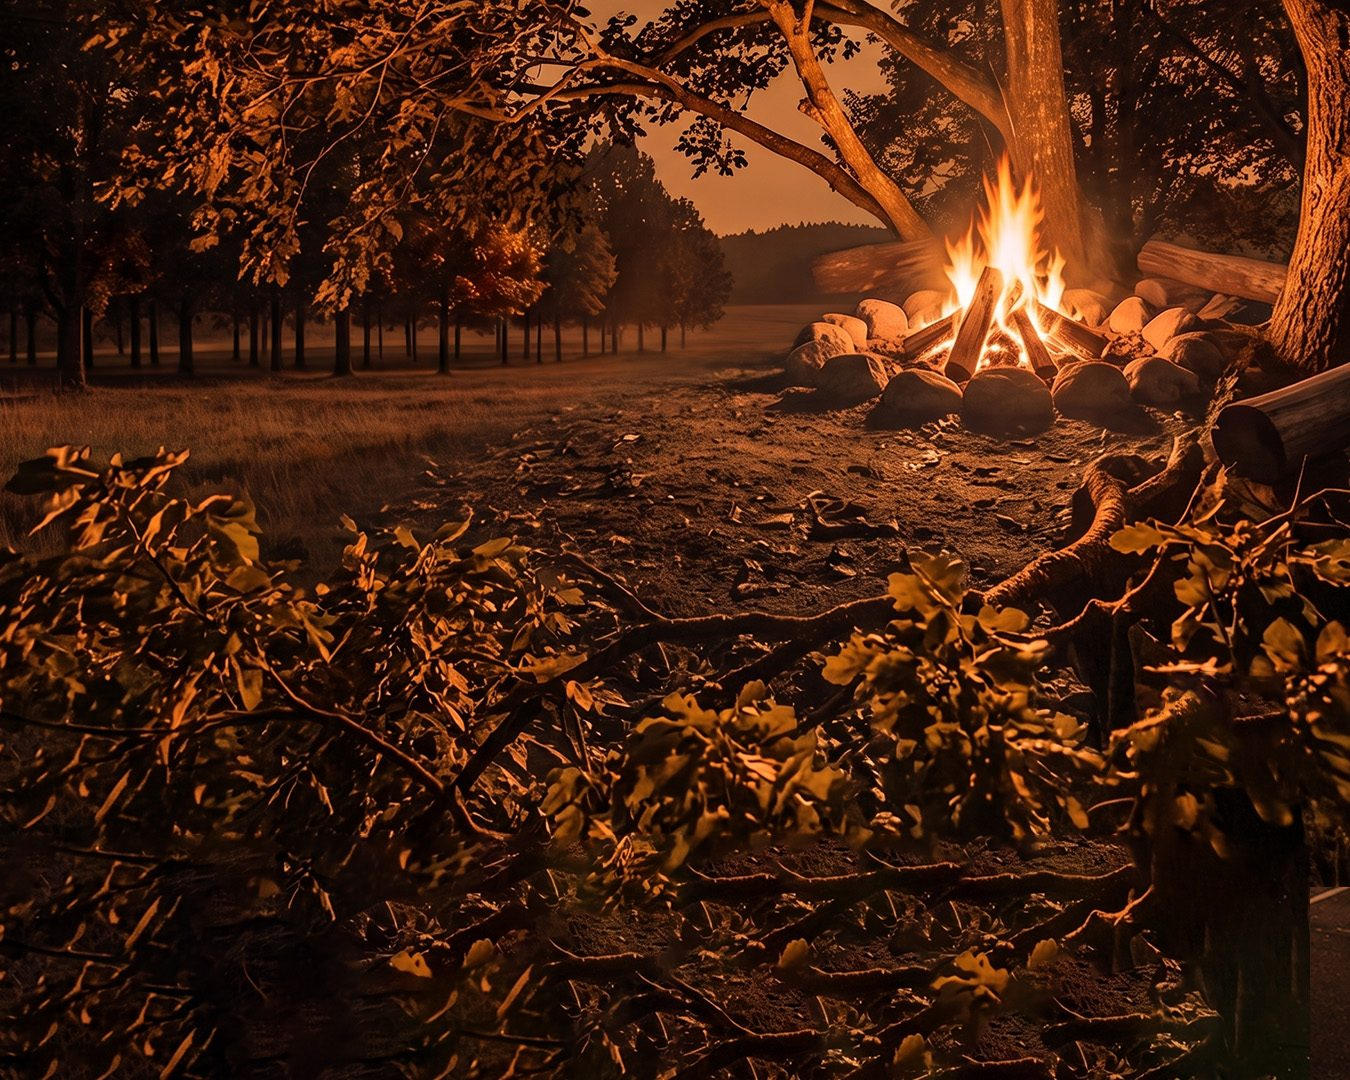
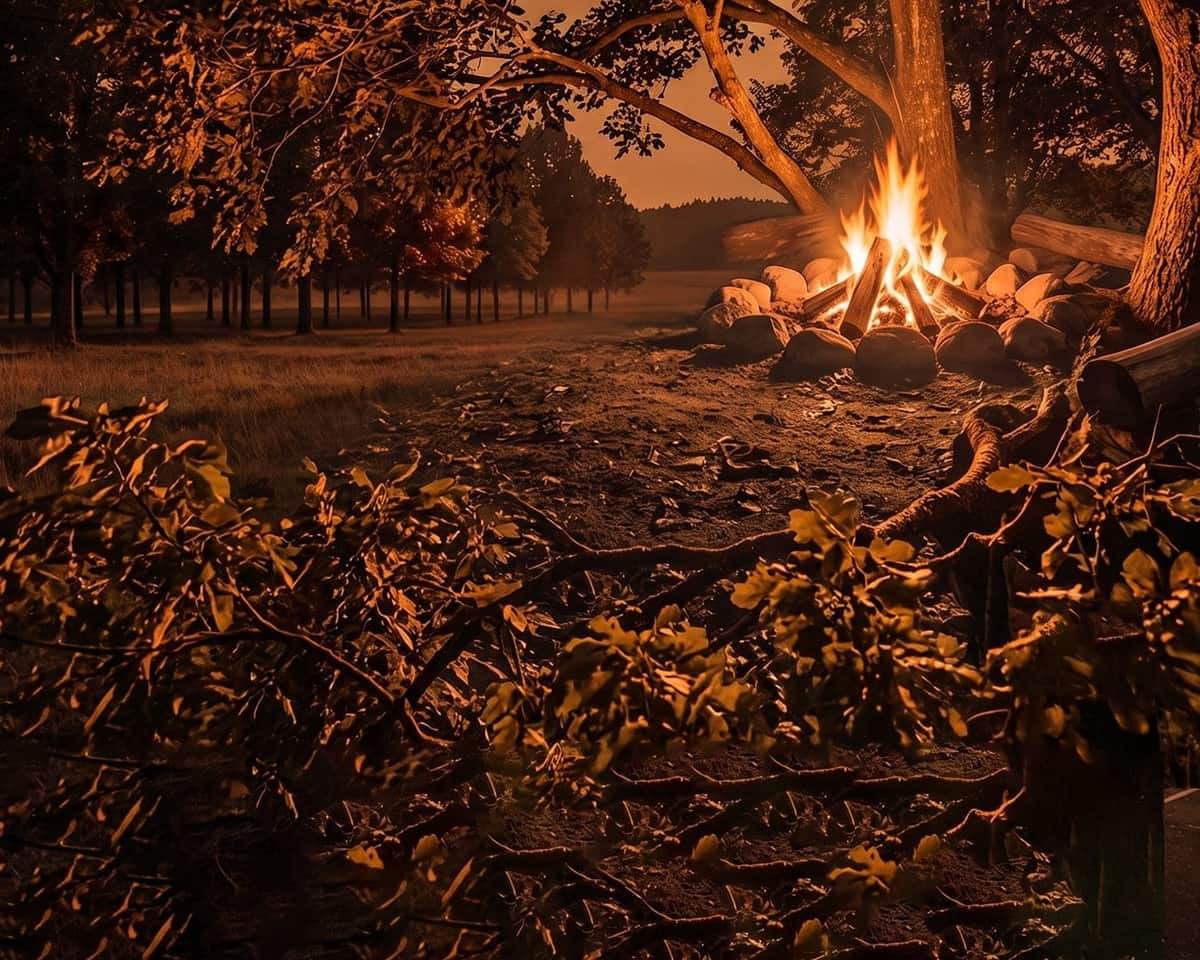
Production polish: error pages, trim assets, strip debug logs
- Add app/error.tsx (styled retry screen) and global-error.tsx fallback
- Recompress heavy hero photos (camp 377→159 KB, basketball 238→95 KB)
- Delete unused public/project_191991_1642180173.jpeg
- Remove dead guest-login path from auth.tsx
- Drop diagnostic console logs (VAPID key, ping/invite success)
- Update CLAUDE.md structure and data model to match the codebase

Claude-Session: https://claude.ai/code/session_01T8a7X3d4zjEzxJV3fSyW7S

diff --git a/src/app/global-error.tsx b/src/app/global-error.tsx
@@ -1,0 +1,44 @@
+'use client';
+
+// Ostatnia linia obrony: błąd w samym root layoucie. Renderuje się BEZ layoutu
+// (i bez globals.css), więc musi mieć własne <html>/<body> i style inline.
+export default function GlobalError({ reset }: { reset: () => void }) {
+  return (
+    <html lang="pl">
+      <body
+        style={{
+          margin: 0,
+          minHeight: '100vh',
+          display: 'flex',
+          flexDirection: 'column',
+          alignItems: 'center',
+          justifyContent: 'center',
+          gap: 16,
+          background: '#0c0e10',
+          color: '#e8eaed',
+          fontFamily: 'ui-monospace, monospace',
+          textAlign: 'center',
+          padding: 24,
+        }}
+      >
+        <b style={{ fontSize: 18, letterSpacing: 1 }}>WYPAD.EXE</b>
+        <p style={{ margin: 0, opacity: 0.7 }}>Coś się mocno wysypało.</p>
+        <button
+          type="button"
+          onClick={reset}
+          style={{
+            padding: '10px 22px',
+            borderRadius: 10,
+            border: '1px solid rgba(255,255,255,0.2)',
+            background: 'rgba(255,255,255,0.08)',
+            color: 'inherit',
+            font: 'inherit',
+            cursor: 'pointer',
+          }}
+        >
+          Spróbuj ponownie
+        </button>
+      </body>
+    </html>
+  );
+}

diff --git a/src/app/error.tsx b/src/app/error.tsx
@@ -1,0 +1,42 @@
+'use client';
+
+// Granica błędów dla stron (App Router): zamiast domyślnego białego ekranu Next
+// pokazujemy komunikat w skórce apki z możliwością ponowienia. Renderuje się
+// wewnątrz layoutu, więc tło i style globalne działają normalnie.
+export default function ErrorPage({
+  error,
+  reset,
+}: {
+  error: Error & { digest?: string };
+  reset: () => void;
+}) {
+  return (
+    <main className="glass-page">
+      <div className="wordmark cursor" style={{ textAlign: 'center', margin: '32px 0 18px' }}>
+        WYPAD<span>.EXE</span>
+      </div>
+      <div className="card">
+        <div className="modal-label">Coś się wysypało</div>
+        <p className="small muted">
+          Apka napotkała błąd. Spróbuj ponownie — a jak nie pomoże, odśwież stronę.
+        </p>
+        {error?.message && (
+          <p className="small" style={{ color: 'var(--no)', wordBreak: 'break-word' }}>
+            {error.message}
+          </p>
+        )}
+        <button type="button" className="cta-gradient" onClick={reset}>
+          Spróbuj ponownie
+        </button>
+        <button
+          type="button"
+          className="ghost mt"
+          style={{ width: '100%' }}
+          onClick={() => window.location.assign('/')}
+        >
+          Wróć na główną
+        </button>
+      </div>
+    </main>
+  );
+}

diff --git a/src/lib/auth.tsx b/src/lib/auth.tsx
@@ -146,14 +146,6 @@ function LoginForm() {
   const [sent, setSent] = useState(false);
   const [busy, setBusy] = useState(false);
   const [error, setError] = useState('');
-  const [isPreview, setIsPreview] = useState(false);
-
-  // Guzik „gość" pokazujemy na preview i lokalnie (każdy adres *.vercel.app oraz localhost).
-  // Na własnej domenie produkcyjnej się nie pokaże.
-  useEffect(() => {
-    const h = window.location.hostname;
-    setIsPreview(h.endsWith('.vercel.app') || h.includes('localhost') || h.startsWith('127.'));
-  }, []);
 
   async function sendCode(e: React.FormEvent) {
     e.preventDefault();
@@ -202,24 +194,6 @@ function LoginForm() {
       return;
     }
     // onAuthStateChange ustawi sesję i przełączy widok — w TEJ przeglądarce.
-  }
-
-  async function guestLogin() {
-    if (busy) return;
-    setBusy(true);
-    setError('');
-    const { error } = await supabase.auth.signInAnonymously({
-      options: {
-        data: {
-          display_name: `Gość ${Math.floor(Math.random() * 900 + 100)}`,
-          avatar: AVATARS[Math.floor(Math.random() * AVATARS.length)],
-        },
-      },
-    });
-    if (error) {
-      setError(error.message);
-      setBusy(false);
-    }
   }
 
   return (
@@ -281,19 +255,6 @@ function LoginForm() {
             Zmień e-mail / wyślij ponownie
           </button>
         </form>
-      )}
-
-      {/* Guzik gościa tymczasowo wyłączony */}
-      {false && isPreview && (
-        <button
-          type="button"
-          className="ghost mt"
-          style={{ width: '100%' }}
-          disabled={busy}
-          onClick={guestLogin}
-        >
-          Wejdź bez logowania (gość)
-        </button>
       )}
     </main>
   );

diff --git a/src/lib/invite.ts b/src/lib/invite.ts
@@ -12,10 +12,7 @@ export async function inviteMember(email: string): Promise<string | null> {
       body: { email: email.trim() },
     });
 
-    if (!error) {
-      console.log('[invite] OK', data);
-      return null;
-    }
+    if (!error) return null;
 
     // Wyciągnij ile się da z błędu invoke.
     const name = (error as Error).name;

diff --git a/src/lib/push.ts b/src/lib/push.ts
@@ -61,9 +61,6 @@ export async function subscribeToPush(userId: string): Promise<void> {
   const permission = await Notification.requestPermission();
   if (permission !== 'granted') throw new Error('Brak zgody na powiadomienia.');
 
-  // DIAGNOSTYKA: jaki klucz publiczny faktycznie ma ten build (NEXT_PUBLIC_* jest
-  // wkompilowane przy buildzie — jeśli tu widać stary klucz, preview nie przebudował się).
-  console.log('[push] VAPID_PUBLIC_KEY w buildzie =', VAPID_PUBLIC_KEY);
   const desiredKey = urlBase64ToUint8Array(VAPID_PUBLIC_KEY);
 
   // Jeśli w przeglądarce jest już subskrypcja, ale zrobiona INNYM kluczem VAPID,
@@ -75,7 +72,6 @@ export async function subscribeToPush(userId: string): Promise<void> {
     const same =
       current.length === desiredKey.length && current.every((b, i) => b === desiredKey[i]);
     if (!same) {
-      console.warn('[push] istniejąca subskrypcja ma inny klucz — od-subskrybowuję i robię nową');
       await supabase.from('push_subscriptions').delete().eq('endpoint', sub.endpoint);
       await sub.unsubscribe();
       sub = null;

diff --git a/src/lib/ping.ts b/src/lib/ping.ts
@@ -44,7 +44,6 @@ export async function pingUser(eventId: string, targetUserId: string, targetName
       return `Ping padł: ${name}${status ? ` (${status})` : ''} — ${reason ?? bodyText ?? message}`;
     }
 
-    console.log('[ping] odpowiedź', data);
     const d = data as { sent?: number; reason?: string } | null;
     if (d && d.sent === 0) {
       return d.reason === 'no-subscriptions'

diff --git a/CLAUDE.md b/CLAUDE.md
@@ -59,36 +59,53 @@ Guidance for AI assistants (and humans) working in this repository.
 ├── public/
 │   ├── manifest.webmanifest      # Manifest PWA
 │   ├── sw.js                     # Service worker (Web Push: push + notificationclick)
-│   └── icon.svg                  # Ikona aplikacji
+│   ├── icon.svg                  # Ikona aplikacji (+ icon-180/192/512.png dla PWA/iOS)
+│   └── hero/                     # Kuratorowane zdjęcia tła kart hero per kategoria (emoji)
 └── src/
     ├── app/
     │   ├── layout.tsx            # Root layout + AuthProvider (bramka logowania), metadata, analityka
     │   ├── globals.css           # Wszystkie style
-    │   ├── page.tsx              # Strona główna = dashboard: oś czasu wypadów + „Nowy wypad"
-    │   ├── event/[id]/page.tsx   # Strona wypadu: terminy, głosowanie, wynik na żywo, ustalanie terminu
+    │   ├── page.tsx              # Strona główna = dashboard: hero + rozkład wypadów + „Nowe lobby"
+    │   ├── error.tsx             # Granica błędów stron (komunikat w skórce apki + retry)
+    │   ├── global-error.tsx      # Awaryjny ekran, gdy wysypie się sam root layout
+    │   ├── event/[id]/page.tsx   # Strona wypadu: terminy, głosowanie, czat, ustalanie terminu
+    │   ├── event/[id]/loading.tsx # Skeleton przejścia do wypadu
     │   └── api/keepalive/route.ts # Endpoint pingowany cronem — utrzymuje bazę aktywną
     ├── components/
     │   ├── SetupBanner.tsx       # Baner gdy brak konfiguracji Supabase
     │   ├── Avatar.tsx            # Avatar (zdjęcie/emoji/inicjały) + AvatarStack
     │   ├── ProfileMenu.tsx       # Avatar w rogu + menu: zmień zdjęcie / emoji / wyloguj
+    │   ├── SettingsMenu.tsx      # Ustawienia: akcent, powiadomienia push, admin (zaproszenia, kadrowanie)
     │   ├── SlotRangeInput.tsx    # Wspólny input terminu: Od / Do / Godzina
+    │   ├── DateTimeInput.tsx     # Pojedyncze pole daty/godziny (część SlotRangeInput)
     │   ├── DescriptionInput.tsx  # Pole opisu + pasek formatowania (B / lista / link)
+    │   ├── EventEmojiInput.tsx   # Wybór emoji/kategorii wypadu (spójny z heroImage.ts)
+    │   ├── LocationAutocomplete.tsx # Podpowiedzi miejscowości (Open-Meteo geocoding) + współrzędne
+    │   ├── Dialogs.tsx           # appAlert/appConfirm + DialogHost (zamiast natywnych alertów)
+    │   ├── GlassBackground.tsx   # Tło „frosted glass" pod całą apką
     │   ├── HeroCropEditor.tsx    # Admin: kadrowanie zdjęć hero per kategoria (zoom+pozycja)
-    │   └── icons.tsx             # Lekkie ikony inline SVG (kalendarz, zegar, pin…)
+    │   └── icons.tsx             # Lekkie ikony inline SVG (kalendarz, zegar, pin, pogoda…)
     └── lib/
         ├── supabaseClient.ts     # Klient Supabase + flaga isSupabaseConfigured
         ├── admin.ts              # E-maile adminów (właściciel) + isAdminEmail; trzymaj w synchronie z is_admin() w schema.sql
         ├── auth.tsx              # AuthProvider (logowanie e-mail/OTP, nazwa+awatar, flaga isAdmin) + hook useAuth
-        ├── slotInput.ts          # Budowanie terminu (starts/ends/all_day) z pól Od/Do/Godzina
+        ├── slotInput.ts          # Budowanie terminu (starts/ends/all_day) z pól Od/Do/Godzina (+ testy)
         ├── avatars.ts            # Lista emoji-awatarów + deterministyczne kolory/inicjały
+        ├── accent.ts             # Kolor akcentu użytkownika (localStorage + skrypt bootujący)
         ├── ping.ts               # „Pinguj kurwę": wywołanie Edge Function ping-user + limit 12h
         ├── invite.ts             # Admin: dodanie e-maila do paczki (Edge Function invite-user)
+        ├── notifyConfirmed.ts    # Fire-and-forget push „✓ GRAMY" (Edge Function notify-confirmed)
         ├── heroImage.ts          # Mapa emoji → zdjęcie tła karty hero (public/hero/*.jpg) + kategorie
         ├── heroCrops.ts          # Odczyt/zapis kadru hero per kategoria (tabela hero_crops)
         ├── push.ts               # Web Push po stronie klienta (subskrypcja, rejestracja SW)
+        ├── weather.ts            # Prognoza Open-Meteo na dzień wypadu + geokodowanie (cache w pamięci)
         ├── calendar.ts           # Eksport ustalonego terminu do pliku .ics (Apple/Google Calendar)
         ├── markdown.tsx          # Mini-renderer markdownu opisu → elementy React (bez surowego HTML)
-        └── types.ts              # Typy: EventRow, Slot, Vote, Profile, Availability
+        ├── transition.tsx        # Animowane przejścia stron (forward/back) + useTransitionNavigate
+        ├── dataCache.ts          # Cache danych w pamięci: dashboard ↔ strona wypadu bez „Wczytuję…"
+        ├── eventPrefetch.ts      # Prefetch danych wypadu na pointerdown (przed nawigacją)
+        ├── chatSeen.ts           # Lokalny znacznik „przeczytane" czatu (kropki nieprzeczytanych)
+        └── types.ts              # Typy + logika statusu wypadu (EventRow, Slot, Vote, Profile…) (+ testy)
 ```
 
 **Punkty wejścia:** `src/app/page.tsx` (`/`, dashboard wszystkich wypadów) oraz
@@ -130,6 +147,9 @@ Zdefiniowany w `supabase/schema.sql` (skrypt idempotentny — można uruchomić 
 - **comments** — komentarze pod wypadem (koordynacja): `event_id` + `user_id` (konto)
   + `author_name` (migawka) + `body`. RLS: każdy zalogowany czyta i dodaje swój; usuwa
   autor, organizator albo admin. Realtime + wątek pod terminami na stronie wypadu.
+- **hero_crops** — kadr zdjęcia hero per kategoria (emoji): `zoom` + `pos_x`/`pos_y`.
+  Zdjęcia są stałe (`public/hero/<slug>.jpg`), admin ustawia kadr w apce
+  (`HeroCropEditor`). Wszyscy czytają, zapisuje tylko admin (`is_admin()`).
 - Nazwy wyświetlane trzymamy w `user_metadata` Supabase Auth oraz w `profiles`;
   przy głosach/wypadach/komentarzach zapisujemy dodatkowo migawkę nazwy.
 